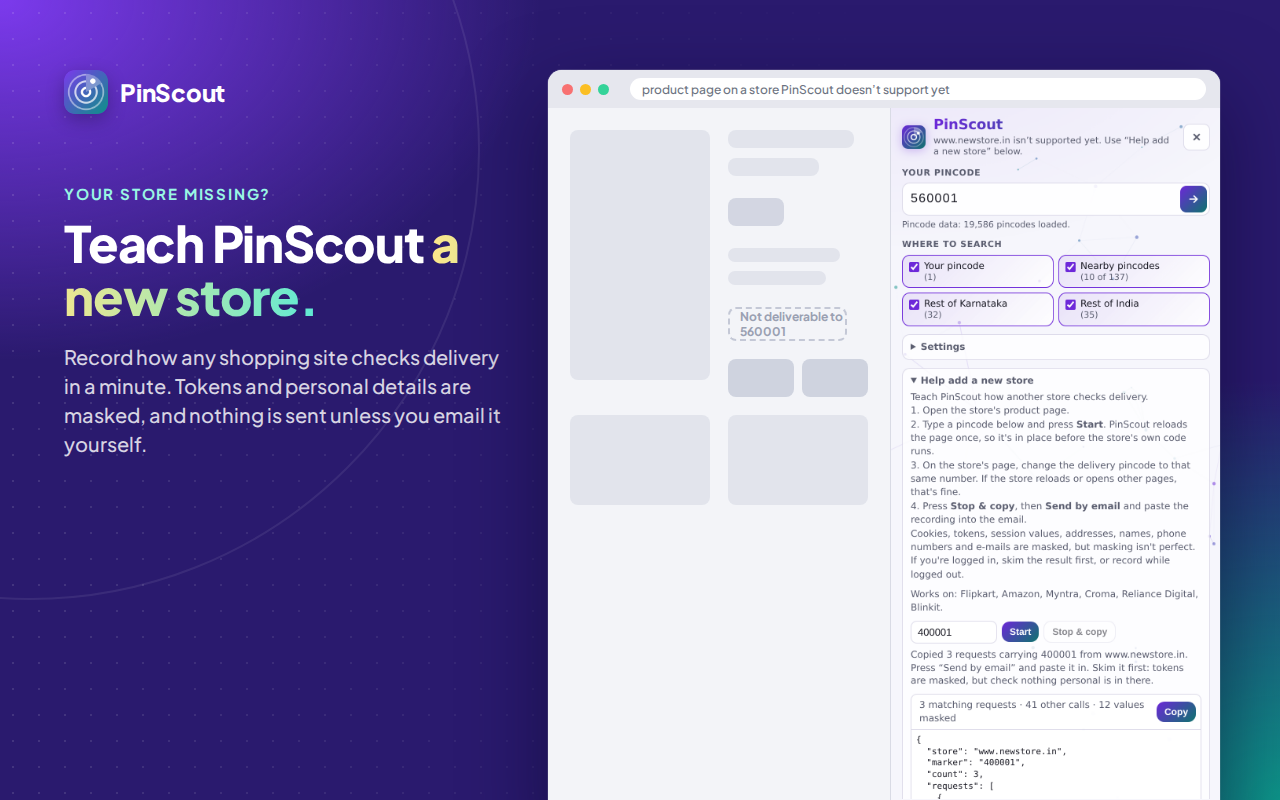
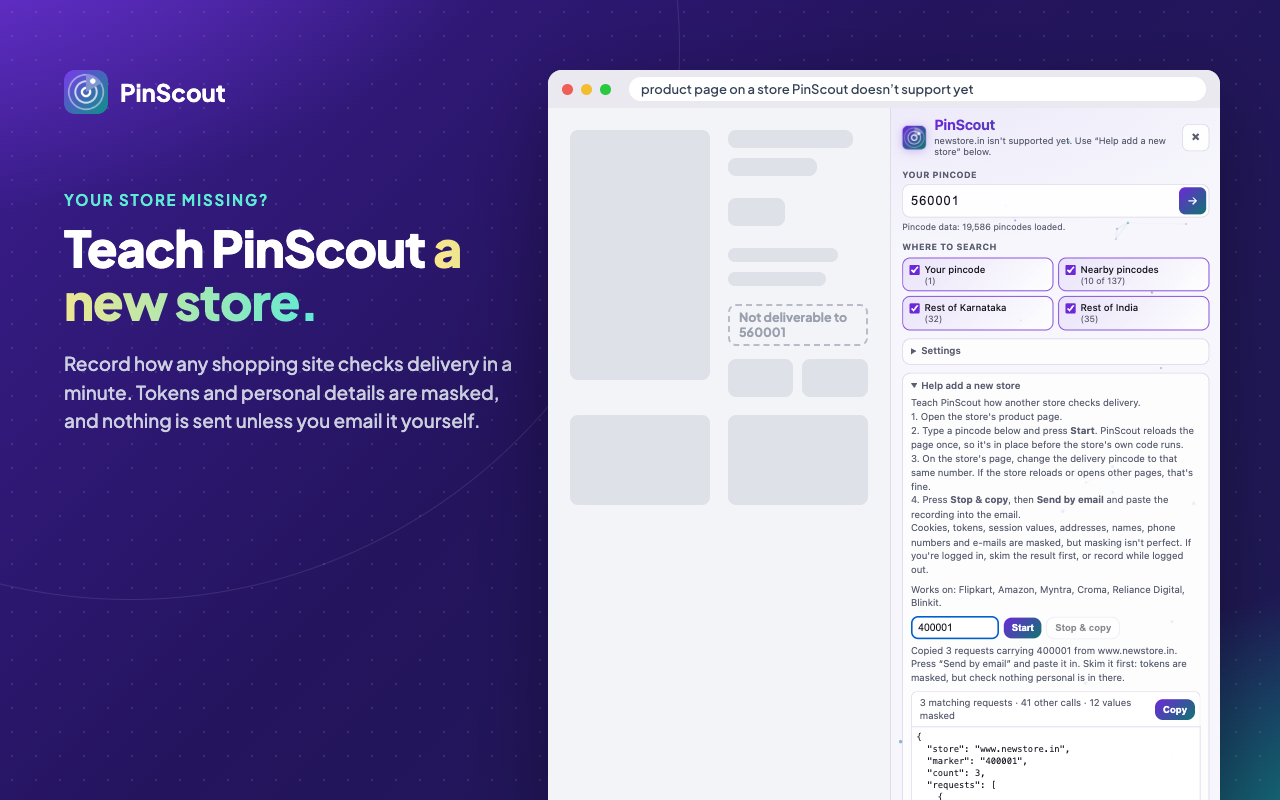
Store images from the real panel: scripts/screenshots.js (npm run screenshots)
Remakes the five 1280×800 screenshots and both promo tiles in
webstore/listing-images/. Each is a page composed in the existing design
(headline left, a pretend browser right) with the extension's own
sidepanel.html in a frame, on a stand-in chrome.* whose store answers
"not deliverable" until 560003: the scan, results and summary are the
panel's own, with pacing sped up. Shot 2 stops mid-scan (the 6th check
never answers); shot 4 shows the recorder with an illustrative, masked
recording. No store branding; product and results are an example.

- Screenshot 5 now says "Only your home pincode is saved, on your
  device" instead of "Your pincode stays on your device", which
  overstated it (each check sends a pincode to the store).
- The images show 1.0.3's panel (its footer line).
- The pretend store page scales with the window, so the marquee's
  narrower window no longer overlaps.
- browse.js exports its helpers (playwright, chrome, serve).
- The website's hero picture is screenshot 1, so it updates too.

diff --git a/scripts/screenshots.js b/scripts/screenshots.js
@@ -1,0 +1,184 @@
+// The Chrome Web Store images, made from the real side panel: five 1280×800 screenshots and the two promo tiles, written
+// to webstore/listing-images/. Each one is a page composed here (headline on the left, a pretend browser on the right)
+// with the extension's own sidepanel.html in a frame, on a stand-in chrome.* (as in scripts/browse.js) whose store answers
+// "not deliverable" until a chosen pincode: the scan, the results and the summary are the panel's own.
+//   node scripts/screenshots.js                 all of them
+//   node scripts/screenshots.js 1 5 marquee     some of them (a number, "marquee" or "small")
+//   node scripts/screenshots.js --out .check/shots/store    somewhere else (to compare before replacing)
+// The product and the results are an illustrative example (pincode 560001, Bengaluru); the store page is a neutral
+// placeholder, so no store's branding appears in the listing. Run after any visible change to the panel.
+const fs = require("fs"), path = require("path");
+const { playwright, chrome, serve } = require("./browse.js");
+const ROOT = path.join(__dirname, ".."), argv = process.argv.slice(2);
+const outArg = argv.indexOf("--out"), OUT = outArg >= 0 ? path.resolve(argv[outArg + 1]) : path.join(ROOT, "webstore/listing-images");
+const only = argv.filter((a, i) => !a.startsWith("--") && argv[i - 1] !== "--out");
+
+const PRODUCT = "Noise-cancelling Wireless Headphones (Black)", HOME = "560001", FOUND = "560003", ETA = "Delivery by Fri, 10 Oct";
+const STORE_URL = "https://www.flipkart.com/noise-cancelling-wireless-headphones/p/itm0000000000001?pid=ACCDEMO000000001";
+
+/* the panel's chrome.*: a product tab, storage in memory, and a store that answers per pincode; pacing sped up */
+function stub(cfg) {
+  if (!/sidepanel\.html/.test(location.pathname)) return;
+  const tab = { id: 7, windowId: 1, index: 0, active: true, status: "complete", url: cfg.url, title: "Product page" }, store = {};
+  const ev = () => ({ addListener() {}, removeListener() {}, hasListener: () => false });
+  /* the scan waits ~1 s between checks: 30 ms here, so a picture doesn't take minutes (the 20 s check timeout is kept) */
+  const st = window.setTimeout; window.setTimeout = (fn, ms, ...a) => st(fn, ms >= 300 && ms <= 6000 ? 30 : ms, ...a);
+  let n = 0;
+  const answer = (pin) => {
+    n++;
+    if (cfg.hangAt && n >= cfg.hangAt) return new Promise(() => {});           // "still checking" for a mid-scan picture
+    return pin === cfg.found ? { ok: true, serviceable: true, title: cfg.product, eta: cfg.eta } : { ok: true, serviceable: false, title: cfg.product };
+  };
+  globalThis.chrome = {
+    runtime: { getURL: (p) => "/extension/" + p.replace(/^\//, ""), id: "pinscout-stand-in", onMessage: ev() },
+    tabs: { query: async () => [tab], get: async () => tab, getCurrent: async () => undefined, reload: async () => {}, onUpdated: ev(), onActivated: ev(), onRemoved: ev() },
+    windows: { getCurrent: async () => ({ id: 1 }), onRemoved: ev() },
+    storage: { local: { get: async (k) => typeof k === "string" ? (k in store ? { [k]: store[k] } : {}) : { ...store }, set: async (o) => { Object.assign(store, o); }, remove: async () => {} } },
+    scripting: { executeScript: async ({ args }) => [{ result: await answer(args && args[0]) }], registerContentScripts: async () => {}, unregisterContentScripts: async () => {}, getRegisteredContentScripts: async () => [] },
+    permissions: { request: async () => true, contains: async () => true },
+    sidePanel: { close: async () => {} },
+  };
+}
+
+const esc = (s) => s.replace(/&/g, "&amp;").replace(/</g, "&lt;");
+/* "a *highlighted* part" → the yellow-to-teal words */
+const head = (s) => esc(s).replace(/\*([^*]+)\*/g, '<span class="g">$1</span>');
+function page({ w, h, eyebrow, title, body, steps, chips, url, base, win, big }) {
+  return `<!doctype html><html><head><meta charset="utf-8">
+<link rel="preconnect" href="https://fonts.googleapis.com"><link href="https://fonts.googleapis.com/css2?family=Plus+Jakarta+Sans:wght@500;600;700;800&display=block" rel="stylesheet">
+<style>
+*{box-sizing:border-box;margin:0}
+body{width:${w}px;height:${h}px;overflow:hidden;font-family:"Plus Jakarta Sans",system-ui,sans-serif;color:#fff;position:relative;
+ background:radial-gradient(1200px 700px at -10% -20%,#7c3aed 0%,rgba(124,58,237,0) 55%),radial-gradient(700px 500px at 110% 110%,#0d9488 0%,rgba(13,148,136,0) 60%),linear-gradient(135deg,#3b1d8f,#24145e 45%,#1e1a52)}
+body:before{content:"";position:absolute;inset:0;background-image:radial-gradient(rgba(255,255,255,.10) 1px,transparent 1.2px);background-size:24px 24px}
+.ring{position:absolute;border:1.5px solid rgba(255,255,255,.10);border-radius:50%}
+.left{position:absolute;left:${big ? 80 : 64}px;top:${big ? 72 : 70}px;width:${big ? 560 : 450}px}
+.brand{display:flex;align-items:center;gap:12px;font-weight:700;font-size:24px}.brand img{width:44px;height:44px;border-radius:10px}
+.eye{margin-top:${big ? 0 : 76}px;color:#5eead4;font-weight:700;letter-spacing:.12em;font-size:15px;text-transform:uppercase}
+h1{margin-top:${eyebrow ? 12 : 44}px;font-size:${big ? 56 : 50}px;line-height:1.06;letter-spacing:-.02em;font-weight:800}
+.g{background:linear-gradient(90deg,#fde68a,#5eead4);-webkit-background-clip:text;background-clip:text;color:transparent}
+.body{margin-top:22px;font-size:${big ? 21 : 19}px;line-height:1.5;color:rgba(226,232,240,.88)}
+.steps{margin-top:14px;display:grid;gap:12px}.steps div{display:flex;align-items:center;gap:14px;font-weight:600;font-size:17px}
+.steps b{width:30px;height:30px;border-radius:50%;background:rgba(255,255,255,.12);display:grid;place-items:center;font-size:14px}
+.chips{margin-top:26px;display:flex;flex-wrap:wrap;gap:8px}.chips span{border:1px solid rgba(255,255,255,.28);background:rgba(255,255,255,.10);border-radius:999px;padding:7px 14px;font-weight:600;font-size:16px}
+.win{position:absolute;left:${win.x}px;top:${win.y}px;width:${win.w}px;height:${h - win.y + 20}px;background:#f3f4f7;border-radius:14px;overflow:hidden;box-shadow:0 30px 80px rgba(0,0,0,.35)}
+.bar{height:38px;background:#e9e9ef;display:flex;align-items:center;gap:8px;padding:0 14px}.bar i{width:11px;height:11px;border-radius:50%;display:block}
+.url{margin-left:10px;flex:1;height:24px;border-radius:12px;background:#fff;color:#334155;font-size:13px;display:flex;align-items:center;padding:0 12px}
+.site{position:absolute;left:22px;top:60px;height:400px;width:${win.w - 330 - 44}px}
+.sk{background:#dfe1e8;border-radius:8px;position:absolute}.tag{position:absolute;border:2px dashed #b9bcc8;border-radius:8px;color:#9aa0ae;font-size:12.5px;font-weight:700;padding:4px 9px;line-height:1.2}
+.panel{position:absolute;right:0;top:38px;width:330px;bottom:0;border-left:1px solid #dcdde5;overflow:hidden;background:#f6f6fc}
+.panel iframe{border:0;width:412px;height:1000px;transform:scale(.8);transform-origin:0 0}
+</style></head><body>
+<div class="ring" style="left:-420px;top:-500px;width:1100px;height:1100px"></div>
+<div class="left">
+ <div class="brand"><img src="${base}/extension/icons/icon128.png" alt="">PinScout</div>
+ ${eyebrow ? `<div class="eye">${esc(eyebrow)}</div>` : ""}
+ <h1>${head(title)}</h1>
+ <p class="body">${esc(body)}</p>
+ ${steps ? `<div class="steps">${steps.map((s, i) => `<div><b>${i + 1}</b>${esc(s)}</div>`).join("")}</div>` : ""}
+ ${chips ? `<div class="chips">${chips.map((c) => `<span>${esc(c)}</span>`).join("")}</div>` : ""}
+</div>
+<div class="win">
+ <div class="bar"><i style="background:#ef5f57"></i><i style="background:#f4bd2f"></i><i style="background:#2ac940"></i><div class="url">${esc(url)}</div></div>
+ <div class="site">
+  <div class="sk" style="left:0;top:0;width:47%;height:250px"></div>
+  <div class="sk" style="left:53%;top:0;width:42%;height:18px"></div><div class="sk" style="left:53%;top:28px;width:30%;height:18px"></div>
+  <div class="sk" style="left:53%;top:68px;width:19%;height:28px"></div>
+  <div class="sk" style="left:53%;top:118px;width:37%;height:14px"></div><div class="sk" style="left:53%;top:142px;width:33%;height:14px"></div>
+  <div class="tag" style="left:53%;top:174px;width:47%">Not deliverable to ${HOME}</div>
+  <div class="sk" style="left:53%;top:229px;width:22%;height:38px"></div><div class="sk" style="left:78%;top:229px;width:22%;height:38px"></div>
+  <div class="sk" style="left:0;top:285px;width:47%;height:90px"></div><div class="sk" style="left:53%;top:285px;width:47%;height:90px"></div>
+ </div>
+ <div class="panel"><iframe src="${base}/extension/sidepanel.html"></iframe></div>
+</div>
+</body></html>`;
+}
+
+/* what the panel should be showing in each picture */
+/* the nearby limit lives in the folded Settings, so it's set and announced the way a choice there would be */
+const nearby = (f, cap) => f.evaluate((v) => { const s = document.getElementById("nearbyCap"); s.value = v; s.dispatchEvent(new Event("change", { bubbles: true })); }, cap);
+const scan = (cap) => async (f) => { await nearby(f, cap); await f.fill("#pin", HOME); await f.click("#start"); };
+const SHOTS = [
+  { id: "1", file: "screenshot-1-find-where-it-is-available.png", w: 1280, h: 800, eyebrow: "Out of stock at your pincode?", title: "Find *where it isn’t.*",
+    body: "PinScout checks your pincode, then nearby pincodes, your state and the rest of India, and stops at the nearest place it can be delivered.",
+    steps: ["Open a product page", "Type your pincode", "Get the nearest deliverable pincode"], url: "product page on a supported store",
+    set: scan("10"), until: (f) => f.waitForFunction(() => /Nearest place/.test(document.getElementById("summary").textContent), null, { timeout: 30000 }) },
+  { id: "2", file: "screenshot-2-scans-for-you.png", w: 1280, h: 800, eyebrow: "No more trial and error", title: "Stop typing pincodes *one by one.*",
+    body: "PinScout runs the store’s own delivery check for you, pincode after pincode, and shows every result live in the side panel while you keep browsing.",
+    url: "product page on a supported store", hangAt: 6,
+    set: scan("10"), until: (f) => f.waitForFunction(() => document.querySelectorAll("#log li:not(.tier)").length >= 5, null, { timeout: 30000 }) },
+  { id: "3", file: "screenshot-3-choose-range.png", w: 1280, h: 800, eyebrow: "You choose the range", title: "Search as far as *you need.*",
+    body: "Choose how far to search: just nearby, your whole state, or all of India, using India Post data for about 19,500 pincodes.",
+    chips: ["Your pincode", "Nearby", "Your state", "All of India"], url: "product page on a supported store",
+    set: async (f) => { await nearby(f, "10"); await f.fill("#pin", HOME); await f.dispatchEvent("#pin", "input"); await f.focus("#pin"); } },
+  { id: "4", file: "screenshot-4-help-add-a-store.png", w: 1280, h: 800, eyebrow: "Your store missing?", title: "Teach PinScout *a new store.*",
+    body: "Record how any shopping site checks delivery in a minute. Tokens and personal details are masked, and nothing is sent unless you email it yourself.",
+    url: "product page on a store PinScout doesn’t support yet", tab: "https://www.newstore.in/p/12345",
+    set: async (f) => {
+      await nearby(f, "10"); await f.fill("#pin", HOME); await f.dispatchEvent("#pin", "input");
+      await f.evaluate(() => { document.getElementById("recorder").open = true; });
+      await f.fill("#recPin", "400001");
+      /* an illustrative, already masked recording, shown the way the panel shows one after Stop & copy */
+      await f.evaluate(() => {
+        const set = (id, t) => { const e = document.getElementById(id); if (e) e.textContent = t; };
+        set("recStatus", "Copied 3 requests carrying 400001 from www.newstore.in. Press “Send by email” and paste it in. Skim it first: tokens are masked, but check nothing personal is in there.");
+        set("recSummary", "3 matching requests · 41 other calls · 12 values masked");
+        const box = document.getElementById("recBox"); if (box) box.hidden = false;
+        const out = document.getElementById("recOut");
+        if (out) out.value = JSON.stringify({ store: "www.newstore.in", marker: "400001", count: 3, requests: [{ method: "POST", url: "https://www.newstore.in/api/delivery/check", requestBody: "{\"pincode\":\"400001\",\"sku\":\"[token]\"}", status: 200, response: "{\"deliverable\":false,\"pincode\":\"400001\"}" }] }, null, 2);
+        set("recAddr", "getsaurabhpagrut@gmail.com");
+      });
+    } },
+  { id: "5", file: "screenshot-5-private.png", w: 1280, h: 800, eyebrow: "Private by design", title: "No account. No server. *No tracking.*",
+    body: "Checks go straight from your browser to the store you’re on. Only your home pincode is saved, on your device.",
+    chips: ["Free", "No sign-up", "No ads"], url: "product page on a supported store",
+    set: scan("10"), until: (f) => f.waitForFunction(() => /Nearest place/.test(document.getElementById("summary").textContent), null, { timeout: 30000 }) },
+  { id: "marquee", file: "marquee-promo-tile-1400x560.png", w: 1400, h: 560, big: true, title: "Out of stock at your pincode? *Find where it isn’t.*",
+    body: "Scans nearby pincodes, your state and all of India on the store’s own delivery check.",
+    chips: ["Free", "No sign-up", "No ads", "Runs in the side panel"], url: "product page on a supported store", win: { x: 700, y: 60, w: 640 },
+    set: scan("10"), until: (f) => f.waitForFunction(() => /Nearest place/.test(document.getElementById("summary").textContent), null, { timeout: 30000 }) },
+];
+
+/* the small tile: no panel, just the mark and the line */
+const small = (base) => `<!doctype html><html><head><meta charset="utf-8">
+<link href="https://fonts.googleapis.com/css2?family=Plus+Jakarta+Sans:wght@500;700;800&display=block" rel="stylesheet">
+<style>*{margin:0;box-sizing:border-box}body{width:440px;height:280px;overflow:hidden;position:relative;color:#fff;font-family:"Plus Jakarta Sans",system-ui,sans-serif;
+background:radial-gradient(420px 300px at -10% -10%,#7c3aed,rgba(124,58,237,0) 60%),radial-gradient(360px 260px at 110% 110%,#0d9488,rgba(13,148,136,0) 60%),linear-gradient(135deg,#3b1d8f,#24145e 50%,#1e1a52)}
+.ring{position:absolute;border:1.5px solid rgba(255,255,255,.12);border-radius:50%}
+img{position:absolute;right:30px;top:30px;width:96px;height:96px;border-radius:22px;box-shadow:0 12px 30px rgba(0,0,0,.35)}
+.t{position:absolute;left:28px;bottom:30px}.n{font-weight:800;font-size:20px}h1{font-size:30px;line-height:1.08;font-weight:800;letter-spacing:-.02em;margin-top:6px}
+.g{background:linear-gradient(90deg,#fde68a,#5eead4);-webkit-background-clip:text;background-clip:text;color:transparent}p{margin-top:10px;font-size:14px;color:rgba(226,232,240,.9)}</style></head>
+<body><div class="ring" style="right:-60px;top:-90px;width:300px;height:300px"></div><div class="ring" style="right:-20px;top:-50px;width:220px;height:220px"></div>
+<img src="${base}/extension/icons/icon128.png" alt=""><div class="t"><div class="n">PinScout</div><h1>Out of stock?<br><span class="g">Find where it isn’t.</span></h1><p>Delivery check across India’s pincodes</p></div></body></html>`;
+
+(async () => {
+  const want = (id) => !only.length || only.includes(id);
+  fs.mkdirSync(OUT, { recursive: true });
+  const { chromium } = playwright(), srv = await serve(), browser = await chromium.launch({ executablePath: chrome() });
+  let bad = 0;
+  try {
+    for (const s of SHOTS.filter((s) => want(s.id))) {
+      const ctx = await browser.newContext({ viewport: { width: s.w, height: s.h }, deviceScaleFactor: 1, colorScheme: "light", reducedMotion: "no-preference" });
+      await ctx.addInitScript(stub, { url: s.tab || STORE_URL, found: FOUND, eta: ETA, product: PRODUCT, hangAt: s.hangAt || 0 });
+      const pg = await ctx.newPage(), errs = [];
+      pg.on("pageerror", (e) => errs.push(e.message));
+      await pg.setContent(page({ ...s, base: srv.base, win: s.win || { x: 548, y: 70, w: 672 } }), { waitUntil: "networkidle" });
+      const f = pg.frames().find((fr) => /sidepanel\.html/.test(fr.url()));
+      await f.waitForFunction(() => /pincodes loaded/.test(document.getElementById("dataInfo")?.textContent || ""), null, { timeout: 15000 });
+      if (s.set) await s.set(f);
+      if (s.until) await s.until(f);
+      await pg.evaluate(() => document.fonts.ready); await pg.waitForTimeout(400);
+      const file = path.join(OUT, s.file); await pg.screenshot({ path: file });
+      console.log(`${errs.length ? "FAIL" : "ok  "} ${s.id.padEnd(7)} ${path.relative(ROOT, file)} ${s.w}×${s.h}${errs.length ? " · ERRORS: " + errs.join(" | ") : ""}`);
+      if (errs.length) bad++;
+      await ctx.close();
+    }
+    if (want("small")) {
+      const ctx = await browser.newContext({ viewport: { width: 440, height: 280 }, deviceScaleFactor: 1 }), pg = await ctx.newPage();
+      await pg.setContent(small(srv.base), { waitUntil: "networkidle" }); await pg.evaluate(() => document.fonts.ready);
+      const file = path.join(OUT, "small-promo-tile-440x280.png"); await pg.screenshot({ path: file });
+      console.log(`ok   small   ${path.relative(ROOT, file)} 440×280`); await ctx.close();
+    }
+  } finally { await browser.close(); srv.stop(); }
+  process.exit(bad ? 1 : 0);
+})();

diff --git a/scripts/browse.js b/scripts/browse.js
@@ -80,7 +80,9 @@ function stub(url) {
   };
 }
 
-(async () => {
+module.exports = { playwright, chrome, serve };
+
+if (require.main === module) (async () => {
   const cmd = pos[0];
   if (!["shot", "eval"].includes(cmd)) { console.log(fs.readFileSync(__filename, "utf8").split("\n").filter((l) => l.startsWith("//")).map((l) => l.slice(3)).join("\n")); return; }
   const target = pos[1] || "/", isPanel = target === "panel";

diff --git a/ROADMAP.md b/ROADMAP.md
@@ -36,7 +36,7 @@ Goal: the repo explains itself, and every change is checked the same way.
 - [x] `CHANGELOG.md`, one entry per version (1.0.0 to 1.0.3, and Unreleased); the Chrome guide points to it.
 - [x] One privacy policy source: `PRIVACY.md`, built into the website by `npm run site`.
 - [x] A root `package.json`: `npm test`, `npm run build`, `npm run site`, `npm run lint:firefox`.
-- [ ] More scripts as they come: `lint`, `screenshots`, `serve`.
+- [x] `npm run lint`, `npm run screenshots`, `npm run plan`, `npm run browse`.
 - [x] Fast dev tools *(from Bracely)*, described in the `pinscout-dev` skill (`.claude/skills/pinscout-dev/SKILL.md`):
       `tests/run.js` (parallel, one line per file, only failures shown, logs in `.check/`, `--changed`),
       `scripts/plan.js` (what a scan would check for a pincode), `scripts/browse.js` (the website and the side panel in a
@@ -116,9 +116,9 @@ Bracel. Bracel only reads the page; PinScout depends on six stores' private endp
 
 ## Phase 5: store listing assets as scripts *(from Bracel)*
 
-- [ ] `scripts/screenshots.mjs`: the five 1280×800 screenshots with their caption bars, made from the fixtures (Phase
+- [x] `scripts/screenshots.js` (`npm run screenshots`): the five 1280×800 screenshots with their caption bars, made from the fixtures (Phase
       4), so they can be redone after any UI change without real addresses on screen.
-- [ ] Promo tiles from the same script (440×280, 1400×560).
+- [x] Promo tiles from the same script (440×280, 1400×560).
 - [ ] Optional: a short demo video and GIF (`npm run video`, `npm run gif`) for YouTube and Product Hunt.
 
 ## Phase 6: more stores and being found *(from Bracel)*

diff --git a/.claude/skills/pinscout-dev/SKILL.md b/.claude/skills/pinscout-dev/SKILL.md
@@ -47,6 +47,12 @@ It rebuilds the website first when its sources are newer, serves it with the rea
 
 The panel runs outside the extension with a stand-in `chrome.*` (a product tab at `--url`, storage in memory, every check answers "not deliverable"): it shows layout and text, not real store checks. For real checks, load `dist/chrome/pinscout-chrome-<version>/` unpacked.
 
+## Store images: `scripts/screenshots.js`
+`npm run screenshots` (or `node scripts/screenshots.js 1 5 marquee`, `--out .check/shots/store` to compare first) remakes
+the five 1280×800 screenshots and both promo tiles in `webstore/listing-images/` from the real side panel on a stand-in
+`chrome.*` whose store answers "not deliverable" until 560003. Run it after any visible change to the panel; the
+headlines on the left follow the same copy rules as the listing (true to the code, no store names).
+
 ## Builds
 - `npm run build`: every browser into `dist/<browser>/` (older zips kept). Refuses if `package.json` and `extension/manifest.json` versions differ.
 - `npm run lint:firefox`: must be 0 errors (the 4 `sidePanel` warnings are expected; the code checks for it first).

diff --git a/webstore/store-listing.md b/webstore/store-listing.md
@@ -71,7 +71,7 @@ Feedback: getsaurabhpagrut@gmail.com
 | Small promo tile | `small-promo-tile-440x280.png` | 440×280 |
 | Marquee promo tile | `marquee-promo-tile-1400x560.png` | 1400×560 |
 
-The panel in every screenshot is the real PinScout panel rendered from the extension. The scan results are an illustrative example (pincode 560001, Bengaluru) and the store page beside it is a neutral placeholder, so no store's branding appears in your listing.
+All of these except the store icon are made by `npm run screenshots` (`scripts/screenshots.js`), from the real side panel: run it after any visible change to the panel. The panel in every screenshot is the real PinScout panel rendered from the extension. The scan results are an illustrative example (pincode 560001, Bengaluru) and the store page beside it is a neutral placeholder, so no store's branding appears in your listing.
 
 ## Global assets (other fields in that section)
 - **Global promo video**: optional. A 20 to 30 second screen recording on YouTube (open a product, type pincode, watch it find one) helps a lot. Leave empty if you don't have one yet.

diff --git a/CHANGELOG.md b/CHANGELOG.md
@@ -5,6 +5,8 @@ What changed in each version of the extension. The store-listing steps for a rel
 
 ## Unreleased
 
+- Store screenshots and promo tiles are made by `npm run screenshots` from the real panel. Screenshot 5 now says
+  "Only your home pincode is saved, on your device" (it said "Your pincode stays on your device", which overstated it).
 - Removed four helpers nothing called (`Adapters.has`, `Adapters.pending`, `Stores.byId`, `Stores.originPatterns`).
   No change in behaviour.
 - The recorder's masking rules (`scrub`, `sensitiveKey`) are exposed alongside the others, for `tools/make-fixture.js`.
